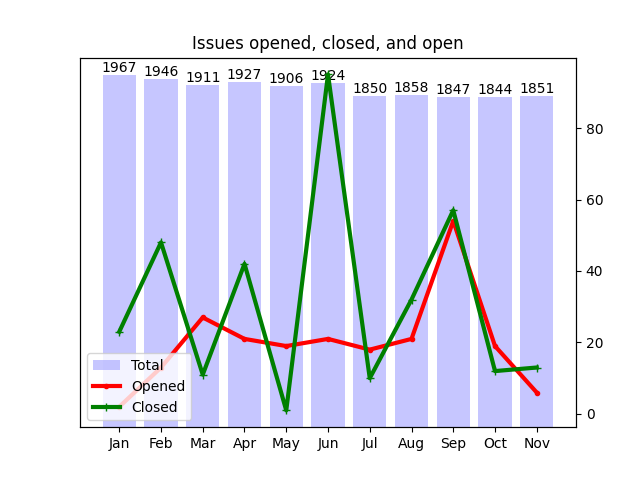
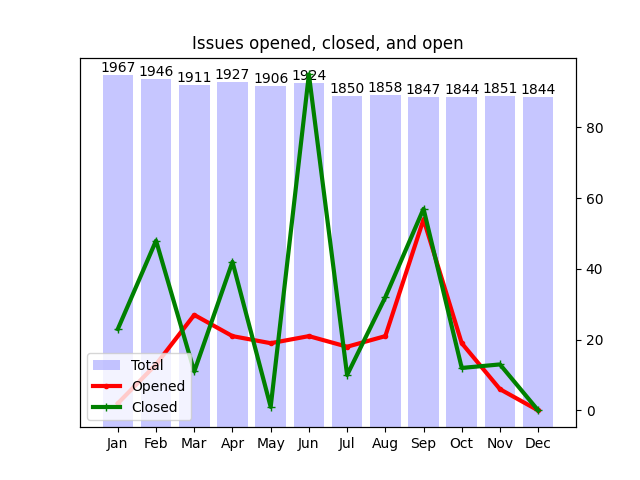
Apply automatic changes

diff --git a/docs/analytics.html b/docs/analytics.html
@@ -122,6 +122,11 @@ td .material-icons { display:inline-flex; vertical-align: top; font-size:1.1rem;
 							<td>6</td>
 							<td>13</td>
 						</tr>
+						<tr>
+							<td>Dec</td>
+							<td>0</td>
+							<td>0</td>
+						</tr>
 					</table>
 				</div>
 				<div class="col">
